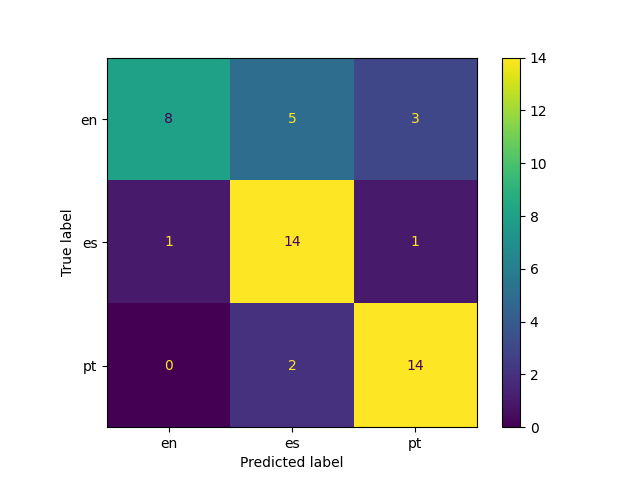
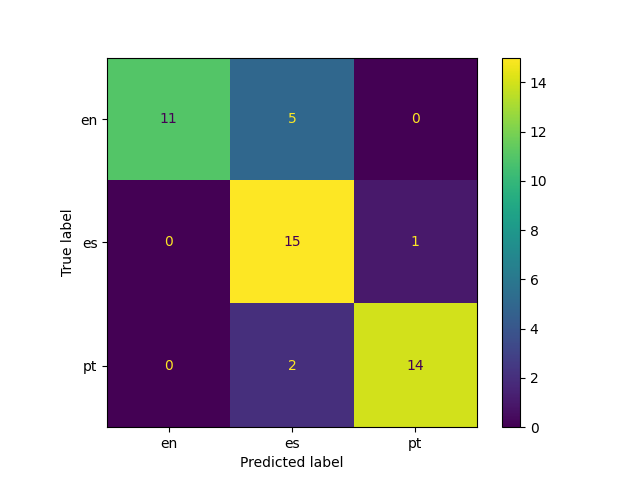
[change] 83%!!!

diff --git a/extract_metrics.py b/extract_metrics.py
@@ -26,9 +26,31 @@ def count_substring_occurrences(words: list[str], substring: str):
 
     return count
 
-
 def count_y_occurrences(words: list[str]):
     return count_substring_occurrences(words, "y")
+
+
+def have_substring(words: list[str], substring: str):
+    for word in words:
+        if substring in word:
+            return 1
+
+    return 0
+
+def have_th_substring(words: list[str]):
+    return have_substring(words, "th")
+
+def have_ng_substring(words: list[str]):
+    return have_substring(words, "ng")
+
+def have_ing_substring(words: list[str]):
+    return have_substring(words, "ing")
+
+def have_ph_substring(words: list[str]):
+    return have_substring(words, "ph")
+
+def have_ght_substring(words: list[str]):
+    return have_substring(words, "ght")
 
 
 def y_occurence_percentage(words: list[str]):
@@ -39,8 +61,6 @@ def y_occurence_percentage(words: list[str]):
                 count += 1
 
     return count / len(words)
-
-
 
 def have_words_ending_with(words: list[str], substring: str):
     for word in words:
@@ -59,22 +79,33 @@ def have_words_ending_with_l(words: list[str]):
     return have_words_ending_with(words, "l")
 
 
-def have_words_ending_with_ng(words: list[str]):
-    return have_words_ending_with(words, "ng")
+def have_words_ending_with_ing(words: list[str]):
+    return have_words_ending_with(words, "ing")
 
+def have_words_ending_with_th(words: list[str]):
+    return have_words_ending_with(words, "th")
+
+# Duas consoantes no final da palavra
 
 def extract_metrics_from_phrase(phrase: str):
     # 75% -> words_mean_length, words_vowel_percentage, have_words_ending_with_n, have_words_ending_with_ng, have_words_ending_with_l
-
+    # 83% -> words_mean_length, words_vowel_percentage, have_words_ending_with_n, have_words_ending_with_ng, have_words_ending_with_l, have_th_substring, have_ng_substring, have_ph_substring
+    
     metrics = [
         words_mean_length,
         words_vowel_percentage,
         # have_words_ending_with_y,
         have_words_ending_with_n,
-        have_words_ending_with_ng,
+        have_words_ending_with_ing,
         have_words_ending_with_l,
         # count_y_occurrences,
         # y_occurence_percentage,
+        # have_words_ending_with_th,
+        have_th_substring,
+        have_ng_substring,
+        # have_ing_substring,
+        have_ph_substring,
+        have_ght_substring
     ]
     splitted = phrase.split(" ")
     metrics_values = []

diff --git a/lang_detector.py b/lang_detector.py
@@ -62,7 +62,7 @@ def main():
             predito = model.predict([extract_metrics_from_phrase(phrase)])
             real_class.append(key)
             predicted_class.append(predito)
-            print( f"{key}: {predito}")
+            print( f"{phrase} ({key}): {predito}")
     
     mat = confusion_matrix(real_class, predicted_class)
     print(mat)
